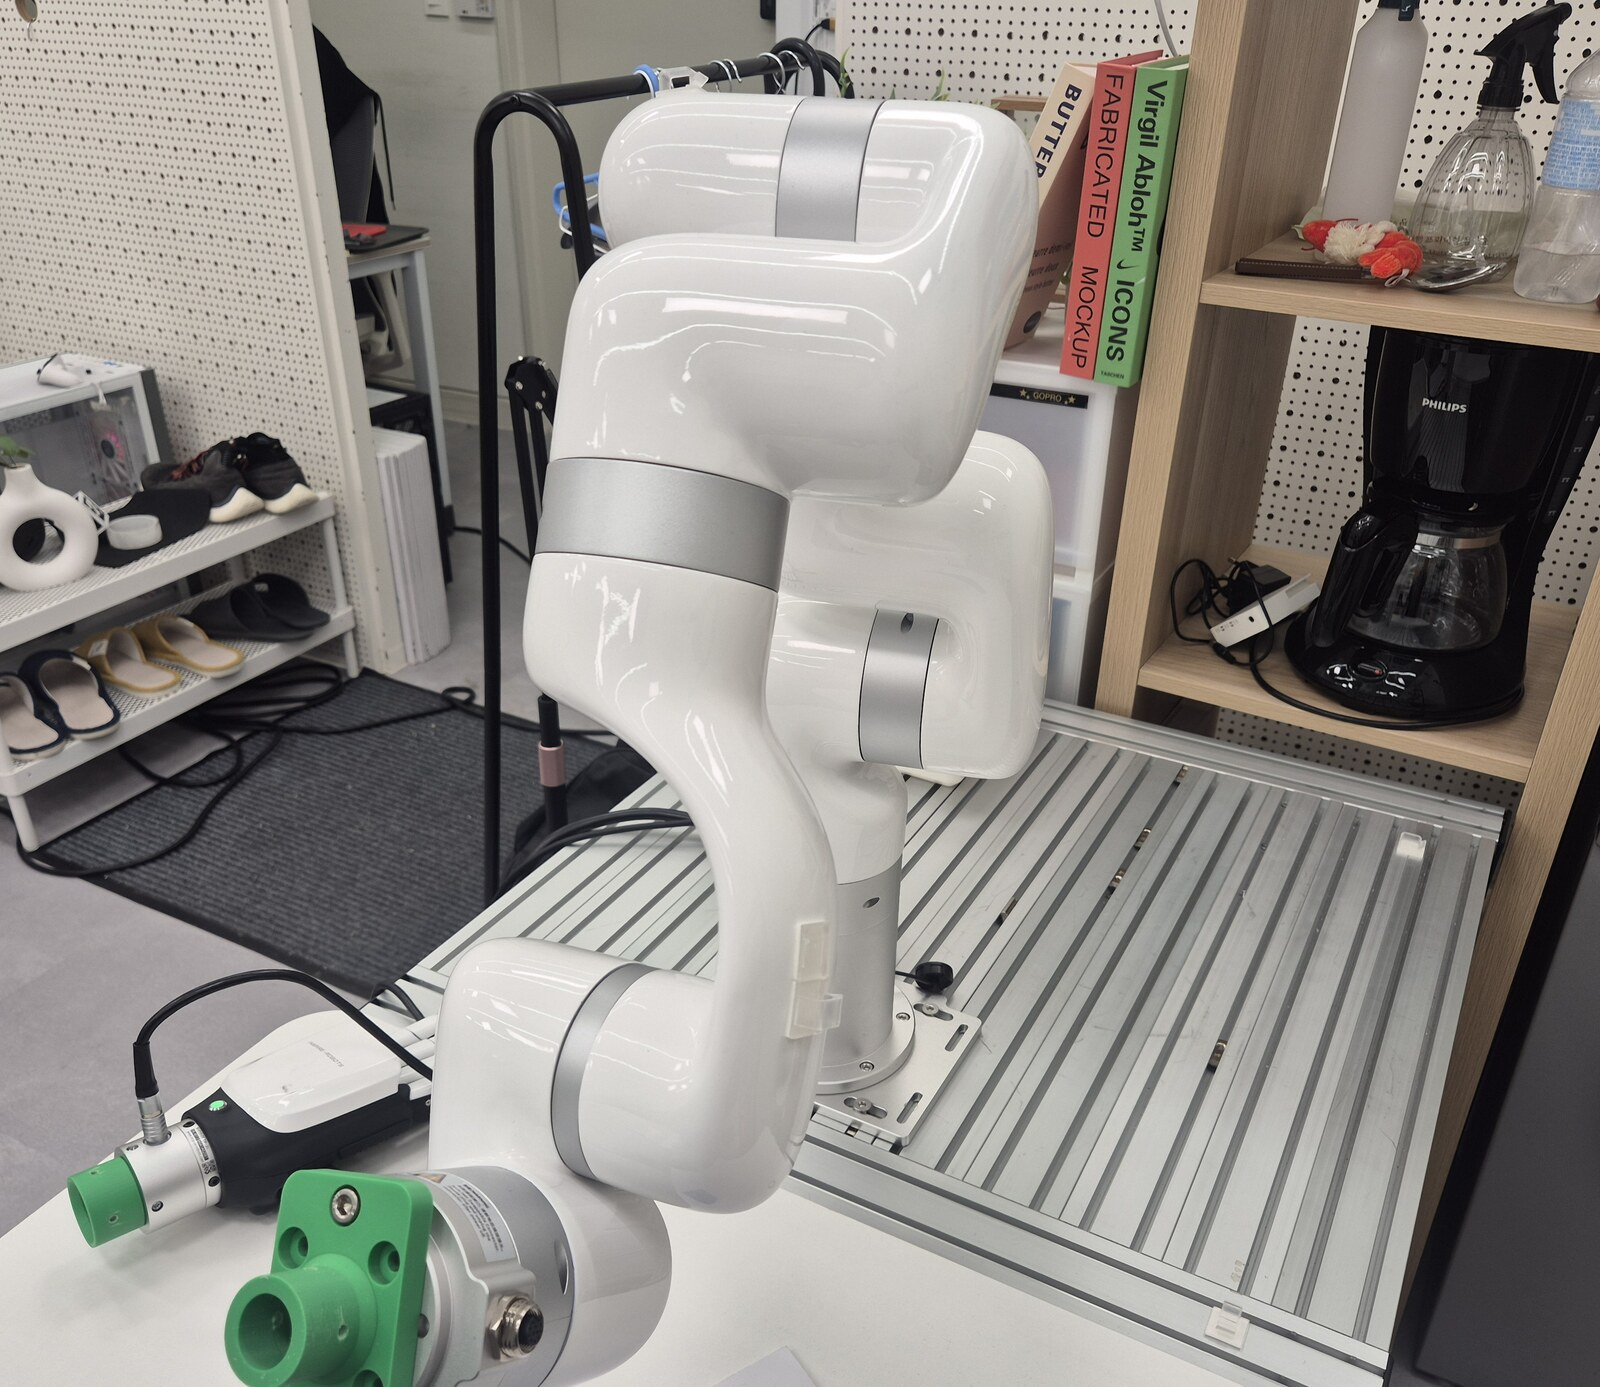
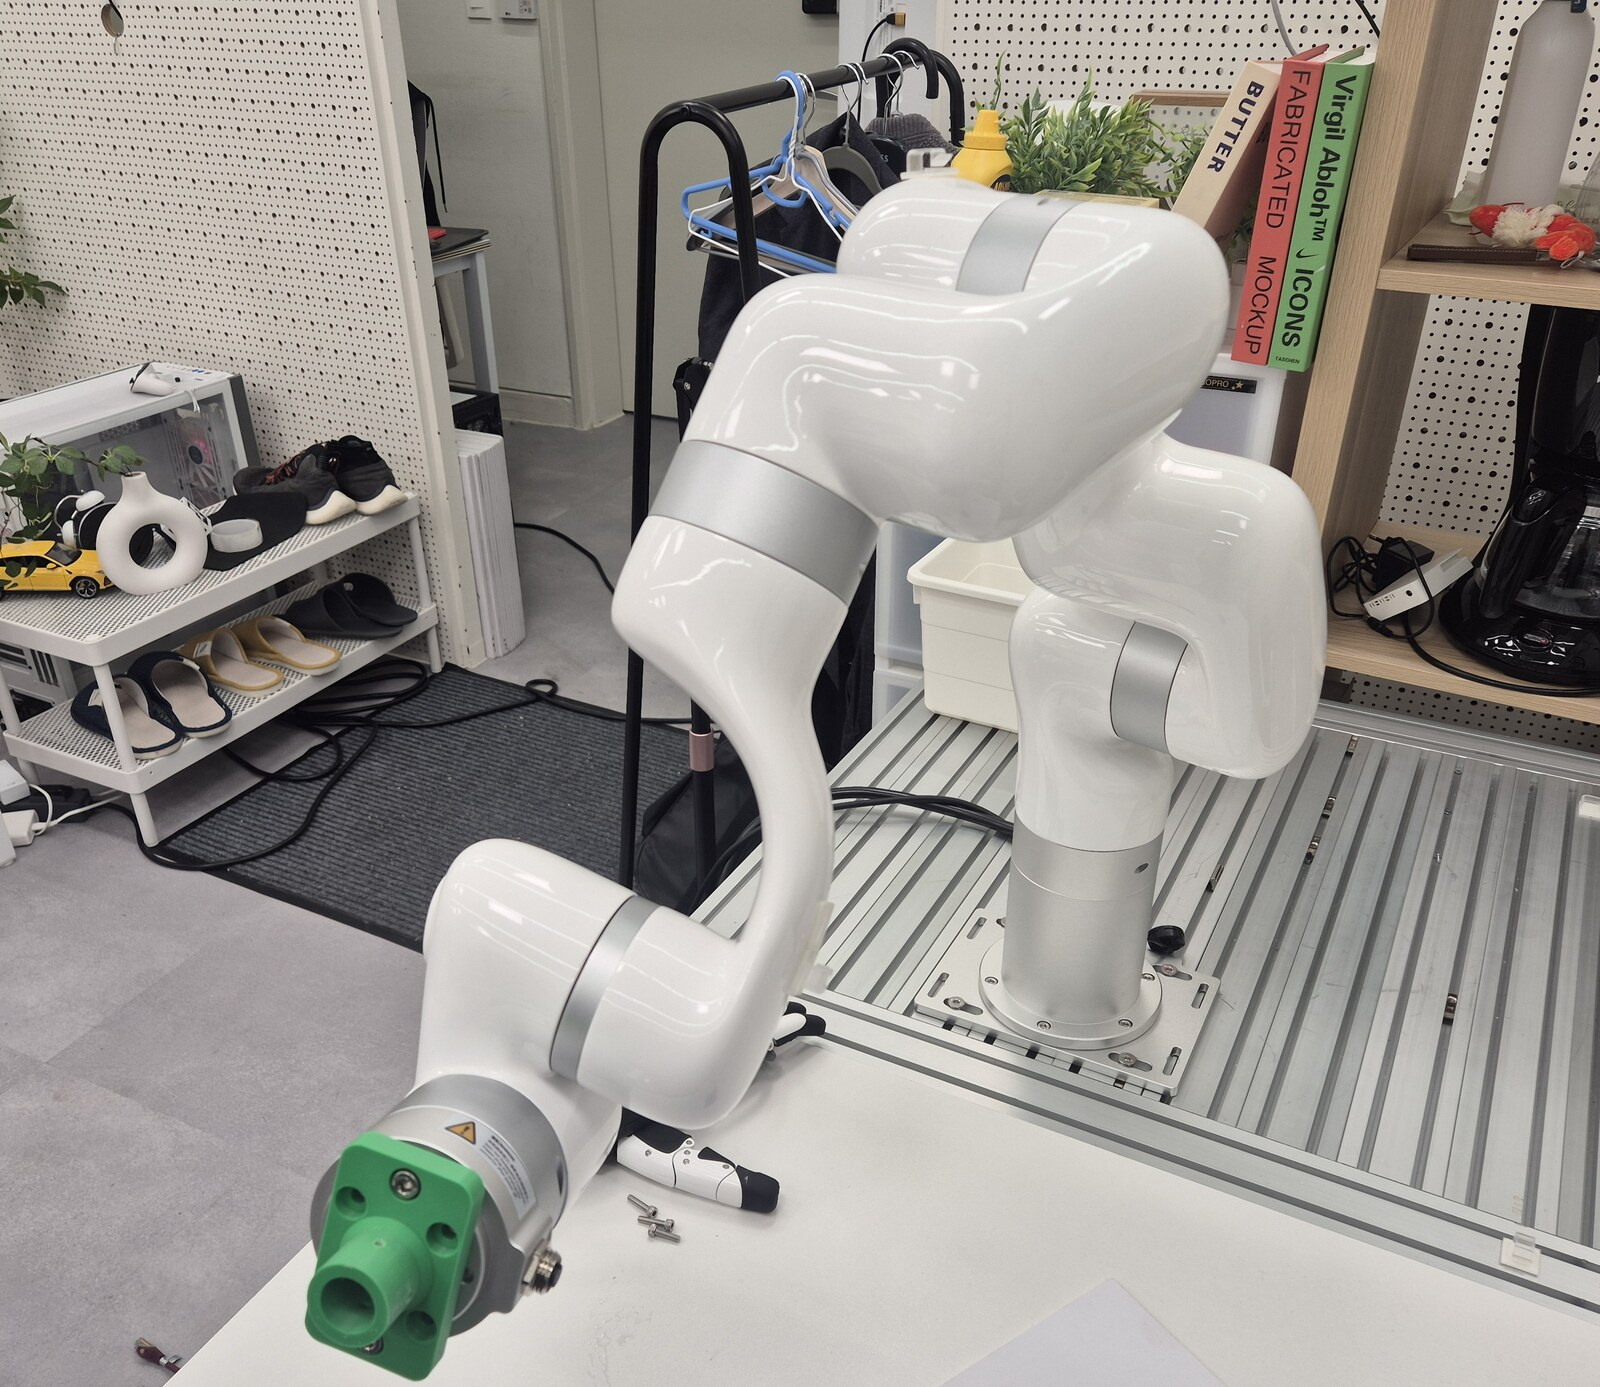
Publish complete calibration pose evidence

diff --git a/issues/setup/calibration-automation.html b/issues/setup/calibration-automation.html
@@ -22,14 +22,15 @@ Frames: read(camera_ids)</pre><p>실제 xArm adapter는 승인된 joint waypoint
         if observation is not None:
             board_poses[camera] = observation.camera_to_board.tolist()
     samples.append({"base_to_tool": robot.base_to_tool().tolist(),
-                    "camera_to_board": board_poses})</pre><p><strong>중요:</strong> robot 정지 확인, collision-free waypoint, E-stop, camera timestamp 동기화는 core가 임의로 추측하지 않는다. live adapter와 실험 operator가 명시적으로 보장해야 한다. 이 분리는 solver가 조용히 robot을 움직이거나 특정 연구실 network에 묶이는 것을 막는다.</p>
+                    "camera_to_board": board_poses})</pre><p>통합 runner에는 선택적으로 원본 frame을 local evidence directory에 기록하는 기능도 추가했다. 이 JPEG는 board가 실제로 보였는지, 어느 자세에서 corner가 부족했는지 다시 검토하기 위한 <strong>로컬 증거</strong>다. raw frame과 intrinsic 수치는 public repository에 넣지 않고, 외부에 공유할 사진은 metadata 제거·민감 영역 점검을 거친 별도 사본만 사용한다.</p><p><strong>중요:</strong> robot 정지 확인, collision-free waypoint, E-stop, camera timestamp 동기화는 core가 임의로 추측하지 않는다. live adapter와 실험 operator가 명시적으로 보장해야 한다. 이 분리는 solver가 조용히 robot을 움직이거나 특정 연구실 network에 묶이는 것을 막는다.</p>
 <h2>safe pose는 기존 hand-eye 코드에서 가져오면 되나?</h2><p>기존 ParaDex hand-eye capture는 미리 저장된 joint-position 파일을 정렬해, 각 action을 <em>blocking</em> move로 실행하고 image와 robot state를 저장한다. 즉, 그 코드는 자동 capture <strong>순서</strong>의 좋은 참고 자료이지만, current workcell의 안전을 계산하거나 보장하는 planner는 아니다. trajectory가 만들어진 뒤 hand, board, cable, table, camera mount가 하나라도 달라지면 같은 joint pose라도 충돌 여유와 board visibility가 달라진다.</p>
 <img src="../../assets/images/diagrams/safe-waypoint-gates.svg" alt="자동 calibration waypoint의 다섯 안전 승인 gate" style="width:100%;border:1px solid var(--line);border-radius:12px">
 <p>따라서 BeltBench에서는 기존 trajectory를 그대로 실행하지 않는다. 먼저 현재 hand+board의 collision envelope와 table·basket·cable을 검토하고, 낮은 속도의 supervised dry run으로 후보 pose를 검증한다. 그 다음 board corner 수, image 내 크기, rotation 다양성, robot 도착 후 안정화 시간까지 통과한 pose만 <code>waypoints</code>로 고정한다. <code>capture_session()</code>의 <code>Robot.move_joints()</code>는 이 “도착과 정지까지 보장하는 blocking adapter”로 구현할 계획이다.</p>
 <h2>한 pose씩 검증하는 BeltBench 도구</h2><p>전체 calibration capture를 시작하기 전에, BeltBench에는 legacy candidate pose를 한 번에 하나씩 검토하는 verifier를 추가했다. 기본 mode는 robot에 연결하지 않고 pose 파일의 여섯 관절값·단위·범위를 읽어 목록으로 보여 주는 dry-run이다. 실제 motion mode는 pose index를 두 번 명시하고, workspace-clear를 사람이 확인하고, 큰 관절 전이는 별도로 승인해야만 한 번의 slow blocking move를 보낸다.</p><p>이 도구는 “기존 pose가 안전함을 선언하는 자동 판정기”가 아니다. 대신 각 pose를 독립적으로 <strong>geometry → low-speed motion → camera visibility → settle → evidence</strong> 순서로 검토하게 만들어, 문제가 생기면 전체 trajectory를 실행하지 않고 해당 pose에서 멈출 수 있게 한다. 검토를 통과한 pose만 새 workcell의 자동 capture waypoint로 승격한다.</p>
 <p>참고로 legacy profile 이름의 숫자는 하나의 path를 둘로 나눈 번호가 아니다. 서로 다른 historical workcell profile에서 온 별도 trajectory이며, 겹치는 pose index도 서로 다른 joint angle을 가진다. 따라서 두 profile을 섞거나 “같은 번호면 같은 pose”라고 가정하지 않는다. 어느 profile을 쓸지도 현재 hand·board·camera 배치에서 한 pose씩 검토한 결과로 결정한다.</p>
-<h2>현재 workcell에서의 pose 검증</h2><p>현재 checkerboard mount와 cable 배치에서 <code>legacy-paradex2-xarm</code>의 pose 0–18을 low-speed blocking move로 순차 검증했다. 모든 pose가 안전하게 도달했으며, 아래는 현장에서 남긴 11장의 자세 증거를 metadata와 주변 인물을 제거해 정리한 것이다. 사진은 pose index와 일대일로 대응하는 trial log가 아니라, 검증 과정의 대표적인 자세 기록이다.</p>
+<h2>현재 workcell에서의 pose 검증</h2><p>현재 checkerboard mount와 cable 배치에서 <code>legacy-paradex2-xarm</code>의 pose 0–18을 low-speed blocking move로 순차 검증했다. 모든 pose가 안전하게 도달했으며, 아래는 현장에서 남긴 <strong>19장의 전체 자세 증거</strong>를 metadata와 주변 인물을 제거해 정리한 것이다. 번호는 현장 검증 사진의 순서를 나타내며, solver input의 pose index와 일대일로 대응하는 기록은 local capture session에만 남긴다.</p>
 <div class="photo-grid"><figure><img src="../../assets/images/calibration-poses/paradex2-check-01.jpg" alt="검증된 Paradex2 calibration pose"><figcaption>검증 자세 01</figcaption></figure><figure><img src="../../assets/images/calibration-poses/paradex2-check-02.jpg" alt="검증된 Paradex2 calibration pose"><figcaption>검증 자세 02</figcaption></figure><figure><img src="../../assets/images/calibration-poses/paradex2-check-03.jpg" alt="검증된 Paradex2 calibration pose"><figcaption>검증 자세 03</figcaption></figure><figure><img src="../../assets/images/calibration-poses/paradex2-check-04.jpg" alt="검증된 Paradex2 calibration pose"><figcaption>검증 자세 04</figcaption></figure><figure><img src="../../assets/images/calibration-poses/paradex2-check-05.jpg" alt="검증된 Paradex2 calibration pose"><figcaption>검증 자세 05</figcaption></figure><figure><img src="../../assets/images/calibration-poses/paradex2-check-06.jpg" alt="검증된 Paradex2 calibration pose"><figcaption>검증 자세 06</figcaption></figure><figure><img src="../../assets/images/calibration-poses/paradex2-check-07.jpg" alt="검증된 Paradex2 calibration pose"><figcaption>검증 자세 07</figcaption></figure><figure><img src="../../assets/images/calibration-poses/paradex2-check-08.jpg" alt="검증된 Paradex2 calibration pose"><figcaption>검증 자세 08</figcaption></figure><figure><img src="../../assets/images/calibration-poses/paradex2-check-09.jpg" alt="검증된 Paradex2 calibration pose"><figcaption>검증 자세 09</figcaption></figure><figure><img src="../../assets/images/calibration-poses/paradex2-check-10.jpg" alt="검증된 Paradex2 calibration pose"><figcaption>검증 자세 10</figcaption></figure><figure><img src="../../assets/images/calibration-poses/paradex2-check-11.jpg" alt="검증된 Paradex2 calibration pose"><figcaption>검증 자세 11</figcaption></figure></div>
+<div class="photo-grid"><figure><img src="../../assets/images/calibration-poses/paradex2-check-12.jpg" alt="검증된 Paradex2 calibration pose"><figcaption>검증 자세 12</figcaption></figure><figure><img src="../../assets/images/calibration-poses/paradex2-check-13.jpg" alt="검증된 Paradex2 calibration pose"><figcaption>검증 자세 13</figcaption></figure><figure><img src="../../assets/images/calibration-poses/paradex2-check-14.jpg" alt="검증된 Paradex2 calibration pose"><figcaption>검증 자세 14</figcaption></figure><figure><img src="../../assets/images/calibration-poses/paradex2-check-15.jpg" alt="검증된 Paradex2 calibration pose"><figcaption>검증 자세 15</figcaption></figure><figure><img src="../../assets/images/calibration-poses/paradex2-check-16.jpg" alt="검증된 Paradex2 calibration pose"><figcaption>검증 자세 16</figcaption></figure><figure><img src="../../assets/images/calibration-poses/paradex2-check-17.jpg" alt="검증된 Paradex2 calibration pose"><figcaption>검증 자세 17</figcaption></figure><figure><img src="../../assets/images/calibration-poses/paradex2-check-18.jpg" alt="검증된 Paradex2 calibration pose"><figcaption>검증 자세 18</figcaption></figure><figure><img src="../../assets/images/calibration-poses/paradex2-check-19.jpg" alt="검증된 Paradex2 calibration pose"><figcaption>검증 자세 19</figcaption></figure></div>
 <p>이 검증은 <strong>현재 mount에서의 motion safety</strong>를 확인한 것이다. integrated calibration capture에서는 각 pose마다 Charuco corner 수·timestamp·solver residual도 함께 기록해, motion-safe pose와 calibration-quality pose를 구분한다.</p>
 <h2>3. <code>geometry.py</code>: transform을 안전하게 다룬다</h2><p><code>transform()</code>은 4×4 모양, 마지막 행, rotation matrix의 직교성을 검사한다. <code>inverse()</code>는 일반적인 matrix inverse 대신 rigid transform의 성질 <code>R⁻¹ = Rᵀ</code>를 이용한다. <code>pose_error()</code>는 두 pose의 translation 차이와 rotation-vector 차이를 각각 metre와 radian으로 반환한다.</p><p>이 검증이 없으면 image pose의 축 순서가 바뀌거나 잘못된 행렬이 들어와도 solver가 숫자를 내놓을 수 있다. calibration에서는 “결과가 있음”보다 “입력 convention이 맞음”이 먼저다.</p>
 <h2>4. <code>handeye.py</code>: 여러 자세를 하나의 고정 관계로 압축한다</h2><p>두 pose i, j를 빼면 고정 camera와 고정 board mount 항이 사라져 상대 운동 관계 <code>A X = X B</code>가 된다. 구현은 모든 pose 쌍을 만들어 information을 늘린 뒤, 여섯 변수(회전 vector 3 + 이동 3)로 표현한 X를 찾는다.</p><pre>for first in range(n - 1):
@@ -41,7 +42,7 @@ base_to_camera = average_transforms(candidates)
 translation_rms, rotation_rms = residuals(base_to_camera, candidates)</pre>
 <h2>5. <code>session.py</code>와 CLI: 재현 가능한 입출력</h2><p><code>solve_session()</code>은 portable JSON의 sample을 camera별로 모아, 네 장 이상 유효 observation이 있는 camera만 푼다. <code>scripts/calibrate.py</code>는 결과 transform, sample 수, RMS를 새 JSON으로 쓰고 console에도 요약한다. raw image나 network 설정은 session format에 포함하지 않는다.</p><pre>python3 scripts/calibrate.py session.json --output calibration.json
 # camera: samples=... translation_rms_mm=... rotation_rms_deg=...</pre>
-<h2>6. 지금 무엇까지 검증됐나</h2><table class="table"><tr><th>검증</th><th>방법</th><th>의미</th></tr><tr><td>SE(3) solver</td><td>알려진 synthetic camera·board transform을 생성해 복원</td><td>수식·상대 운동·평균·RMS 경로 검증</td></tr><tr><td>Charuco detection</td><td>생성한 board image에서 corner와 PnP 실행</td><td>OpenCV image-to-pose 경로 검증</td></tr><tr><td>live xArm/camera capture</td><td>아직 연결 전</td><td>adapter, waypoint, 동기화, workspace 안전 검토가 필요</td></tr></table>
+<h2>6. 지금 무엇까지 검증됐나</h2><table class="table"><tr><th>검증</th><th>방법</th><th>의미</th></tr><tr><td>SE(3) solver</td><td>알려진 synthetic camera·board transform을 생성해 복원</td><td>수식·상대 운동·평균·RMS 경로 검증</td></tr><tr><td>Charuco detection</td><td>생성한 board image에서 corner와 PnP 실행</td><td>OpenCV image-to-pose 경로 검증</td></tr><tr><td>live capture adapter</td><td>선택 camera frame의 형상 preflight와 xArm low-speed waypoint 검증</td><td>통합 runner의 장비 경계와 motion gate 검증</td></tr><tr><td>joint live session</td><td>원본 frame evidence를 보존하는 runner 구현 완료; 아직 solver용 현장 session은 미기록</td><td>실제 board 관측·RMS 검토를 다음 supervised 실행에서 수행</td></tr></table>
 <h2>실제 자동화 전의 gate</h2><ol><li>camera live stream을 다시 확인하고 selected intrinsic을 board reprojection으로 검증한다.</li><li>Charuco board를 tool에 강하게 고정하고, board가 여러 camera에서 충분히 크게 보이는 waypoint를 승인한다.</li><li>xArm adapter가 <code>move_joints</code> 뒤 실제 정지와 <code>base_to_tool</code> timestamp를 보장하게 한다.</li><li>camera adapter가 같은 순간의 frame 또는 허용 가능한 timestamp 차이를 기록하게 한다.</li><li>RMS, corner 수, pose 다양성 기준을 통과한 camera만 M0 observation에 채택한다.</li></ol>
 <h2>관련 자료</h2><ul><li><a href="https://docs.opencv.org/4.x/d9/d0c/group__calib3d.html" rel="noopener noreferrer">OpenCV calib3d</a> — pinhole model, solvePnP, homogeneous transform, hand-eye calibration의 공식 설명.</li><li><a href="https://docs.opencv.org/4.x/d9/d0c/group__calib3d.html#gad0fc2d7a8e8bf0f9f6d90494549b2384" rel="noopener noreferrer">OpenCV calibrateHandEye</a> — AX=XB hand-eye 문제와 eye-to-hand 구성의 공식 API 설명.</li></ul>
 <h2>연결된 이슈</h2><p><a href="camera-discovery.html">ISSUE-002</a>는 image와 intrinsic의 입력 gate, <a href="xarm-network.html">ISSUE-001</a>은 robot transport gate, <a href="../concepts/robot-control.html">CONCEPT-001</a>은 이 calibration 결과가 grasp feedback loop에서 쓰이는 이유를 설명한다.</p>
